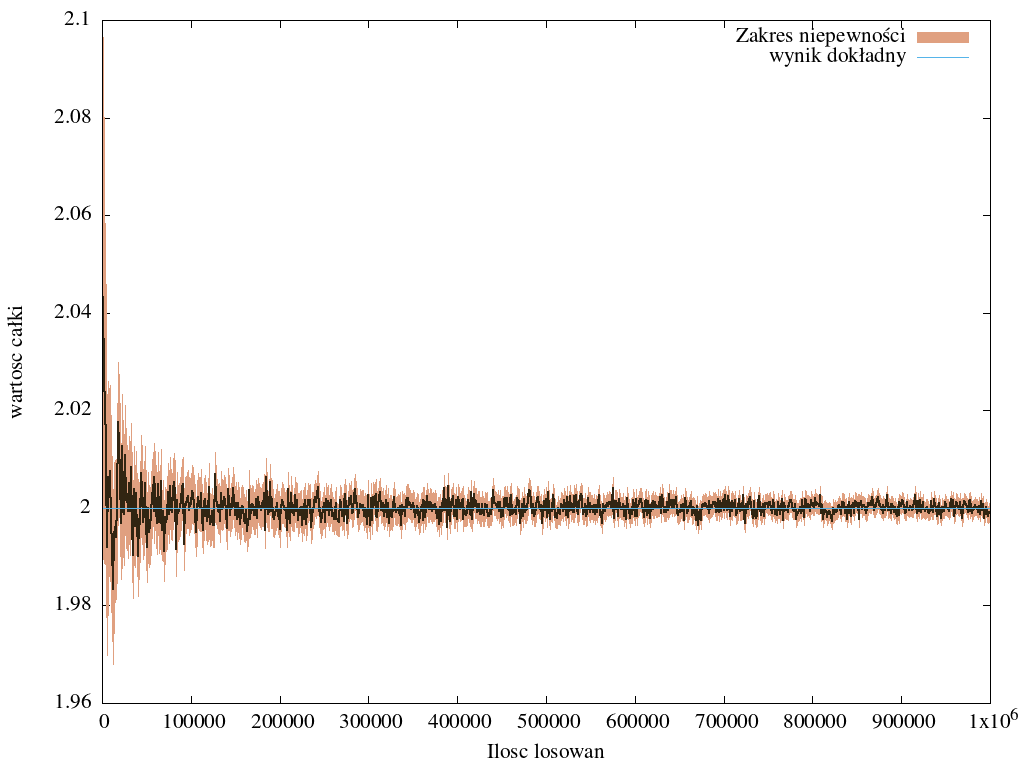
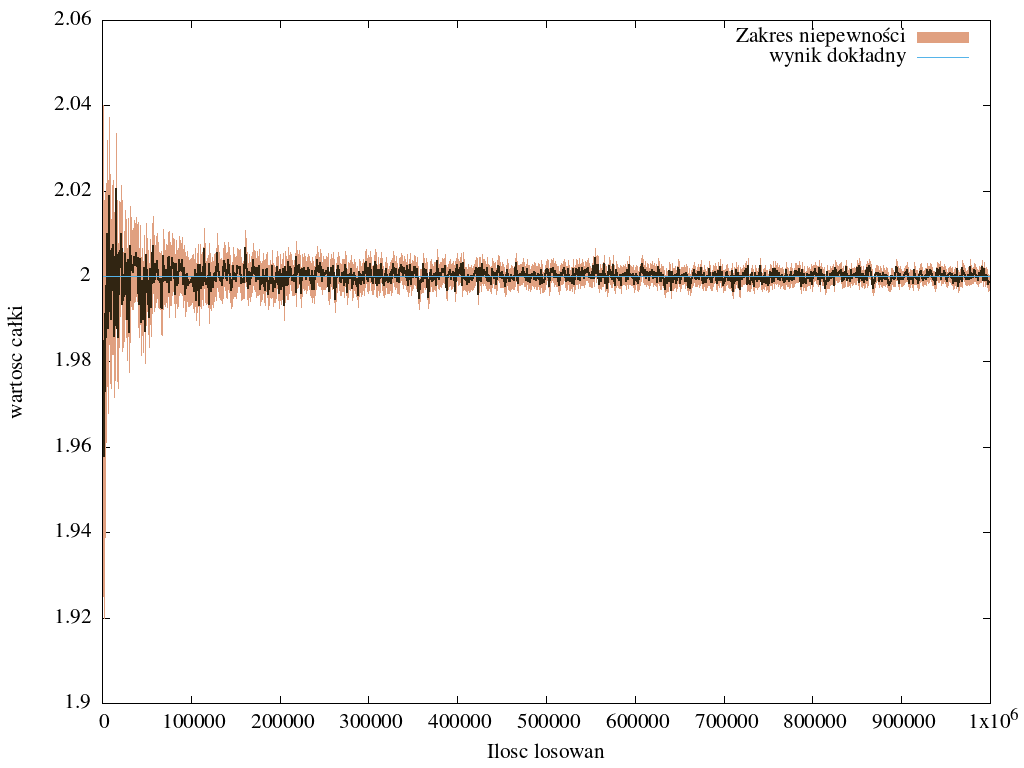
Prawidłowe liczenie całek 2D

diff --git a/main.cpp b/main.cpp
@@ -5,6 +5,7 @@
 #include <fstream>
 #include <string>
 #include <tuple>
+#include <cstring>
 
 using namespace std;
 
@@ -41,8 +42,8 @@ void approx1D(int N, double a, double b, double intVal)
 {
     fstream file;
 
-    system("touch data.dat");
-    file.open("data.dat");
+    system("touch data1.dat");
+    file.open("data1.dat");
 
     cout << "Aproksymacja wielu całek dla różnej ilości próbek:" << endl;  
 
@@ -98,31 +99,66 @@ tuple <double,double> MC2D(int N, double a[2], double b[2])
         V += pow(f(xi1,xi2),2);
     }
     double MC = S*((b[1]-b[0])*(a[1]-a[0])/(double)N);
-    return {MC,0}; 
+    return {MC,pow((b[1]- b[0])*(a[1]-a[0]),2)/(N-1.)*V - N/(N-1.)*MC}; 
+}
+
+void approx2D(int N, double intVal)
+{
+    fstream file;
+
+    system("touch data3.dat");
+    file.open("data3.dat");
+
+    cout << "Aproksymacja wielu całek dla różnej ilości próbek:" << endl;  
+
+    double S;
+    double V;
+
+    double a[] = {0,1};
+    double b[] = {0,1};
+
+    for(int i = 1000; i < N; i+= 1000)
+    {
+        S = get<0>(MC2D(i,a,b));
+        V = get<1>(MC2D(i,a,b));
+        file << i << " " << S << " " << intVal << " " << S-2*sqrt(V/i) << " " << S+2*sqrt(V/i) << "\n"; 
+        cout << "In progress: " << (double)i/N*100 << "%" << "\n";
+    }
+
+    file << endl;
+
+    file.close();
 }
 
 int main()
 {
     srand(time(NULL));
 
-    //approx1D(1e6,0,M_PI,2);
-    //app1sam(1e4,0,M_PI,2);
+    approx1D(1e6,0,M_PI,2);
+    app1sam(1e4,0,M_PI,2);
     
-    //system("gnuplot < script.gnu");
+    approx2D(1e6,pow(1-exp(1),2));
 
-    double a[] = {0,1};
-    double b[] = {0,1}; 
-
-    cout << get<0>(MC2D(1000000,a,b)) << endl;
-    
+    system("gnuplot < script.gnu");
 
     ifstream ifile;
-    ifile.open("data.dat");
 
-    if(ifile)
+    string filename = "data";
+
+    for(int i = 1; i<=3; i++)
     {
-        ifile.close();
-        system("rm data.dat && rm data2.dat");
+        ifile.open("data"+to_string(i)+".dat");
+
+        if(ifile)
+        {
+            ifile.close();
+            string command ="rm data"+to_string(i)+".dat"; 
+            char *cstr = new char[command.length() + 1];
+            strcpy(cstr, command.c_str());
+            system(cstr);
+            delete[] cstr;
+            cout << "deleted: data"+to_string(i)+".dat" << endl;  
+        }
     }
 
     return 0;
